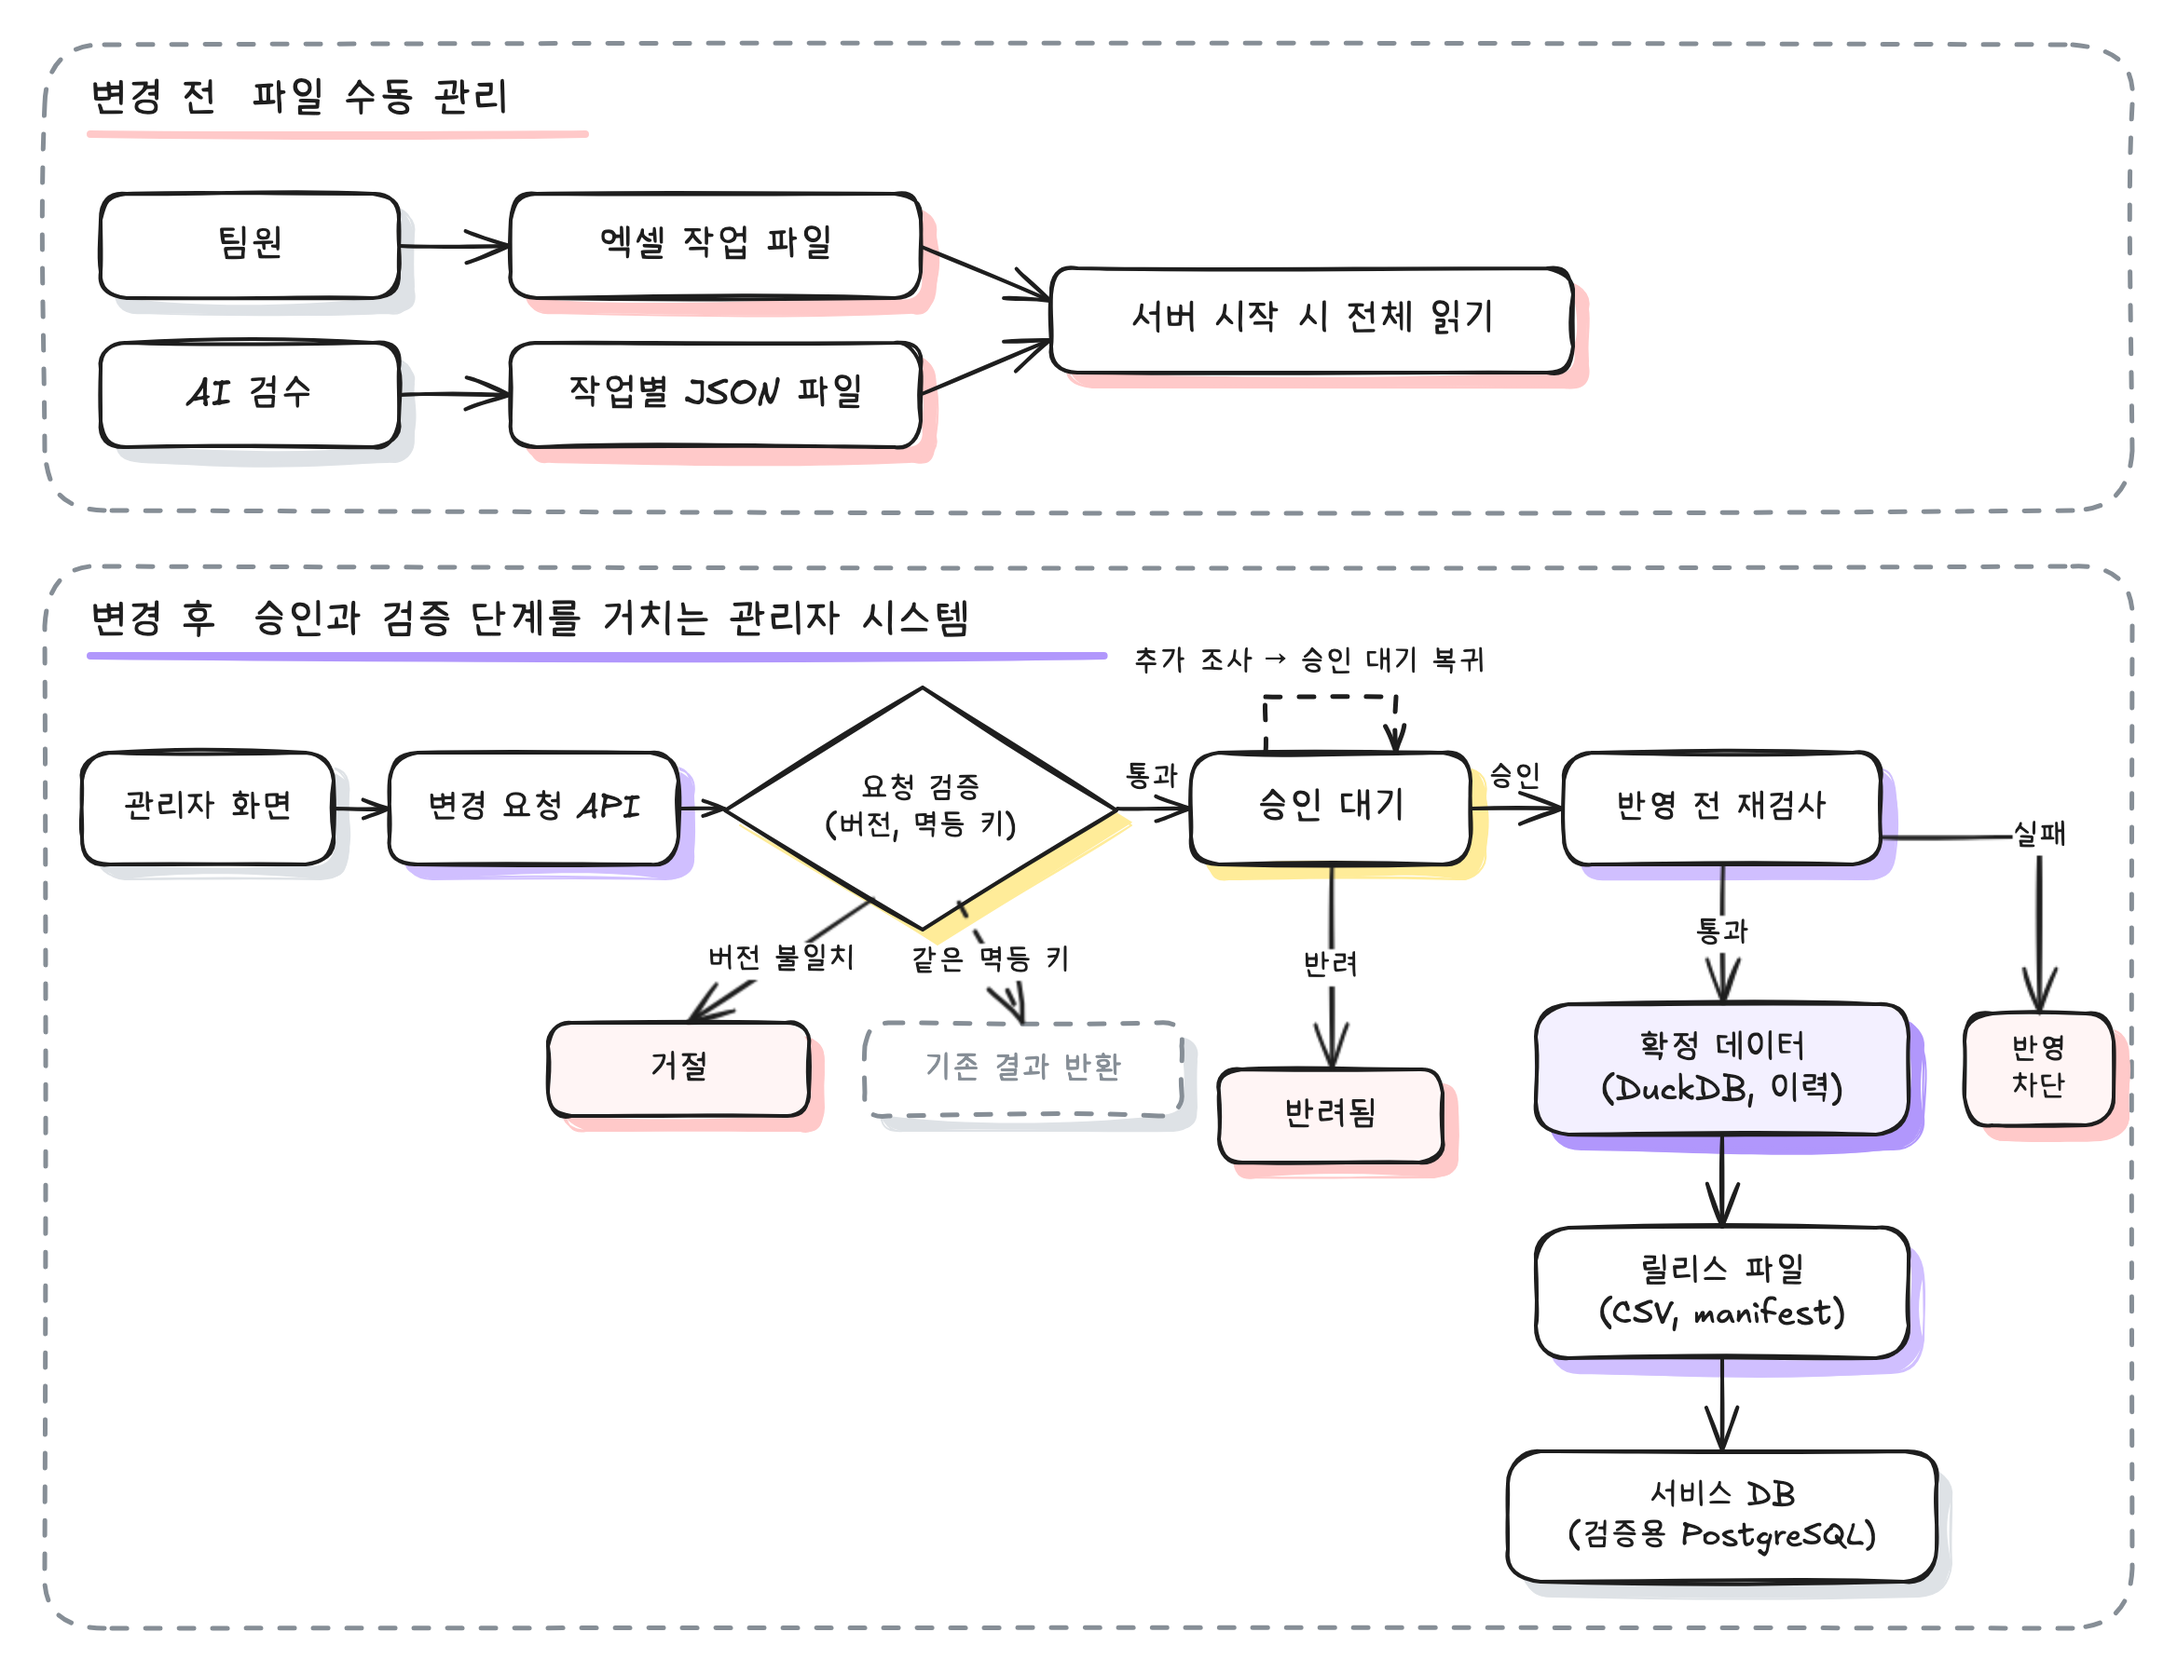
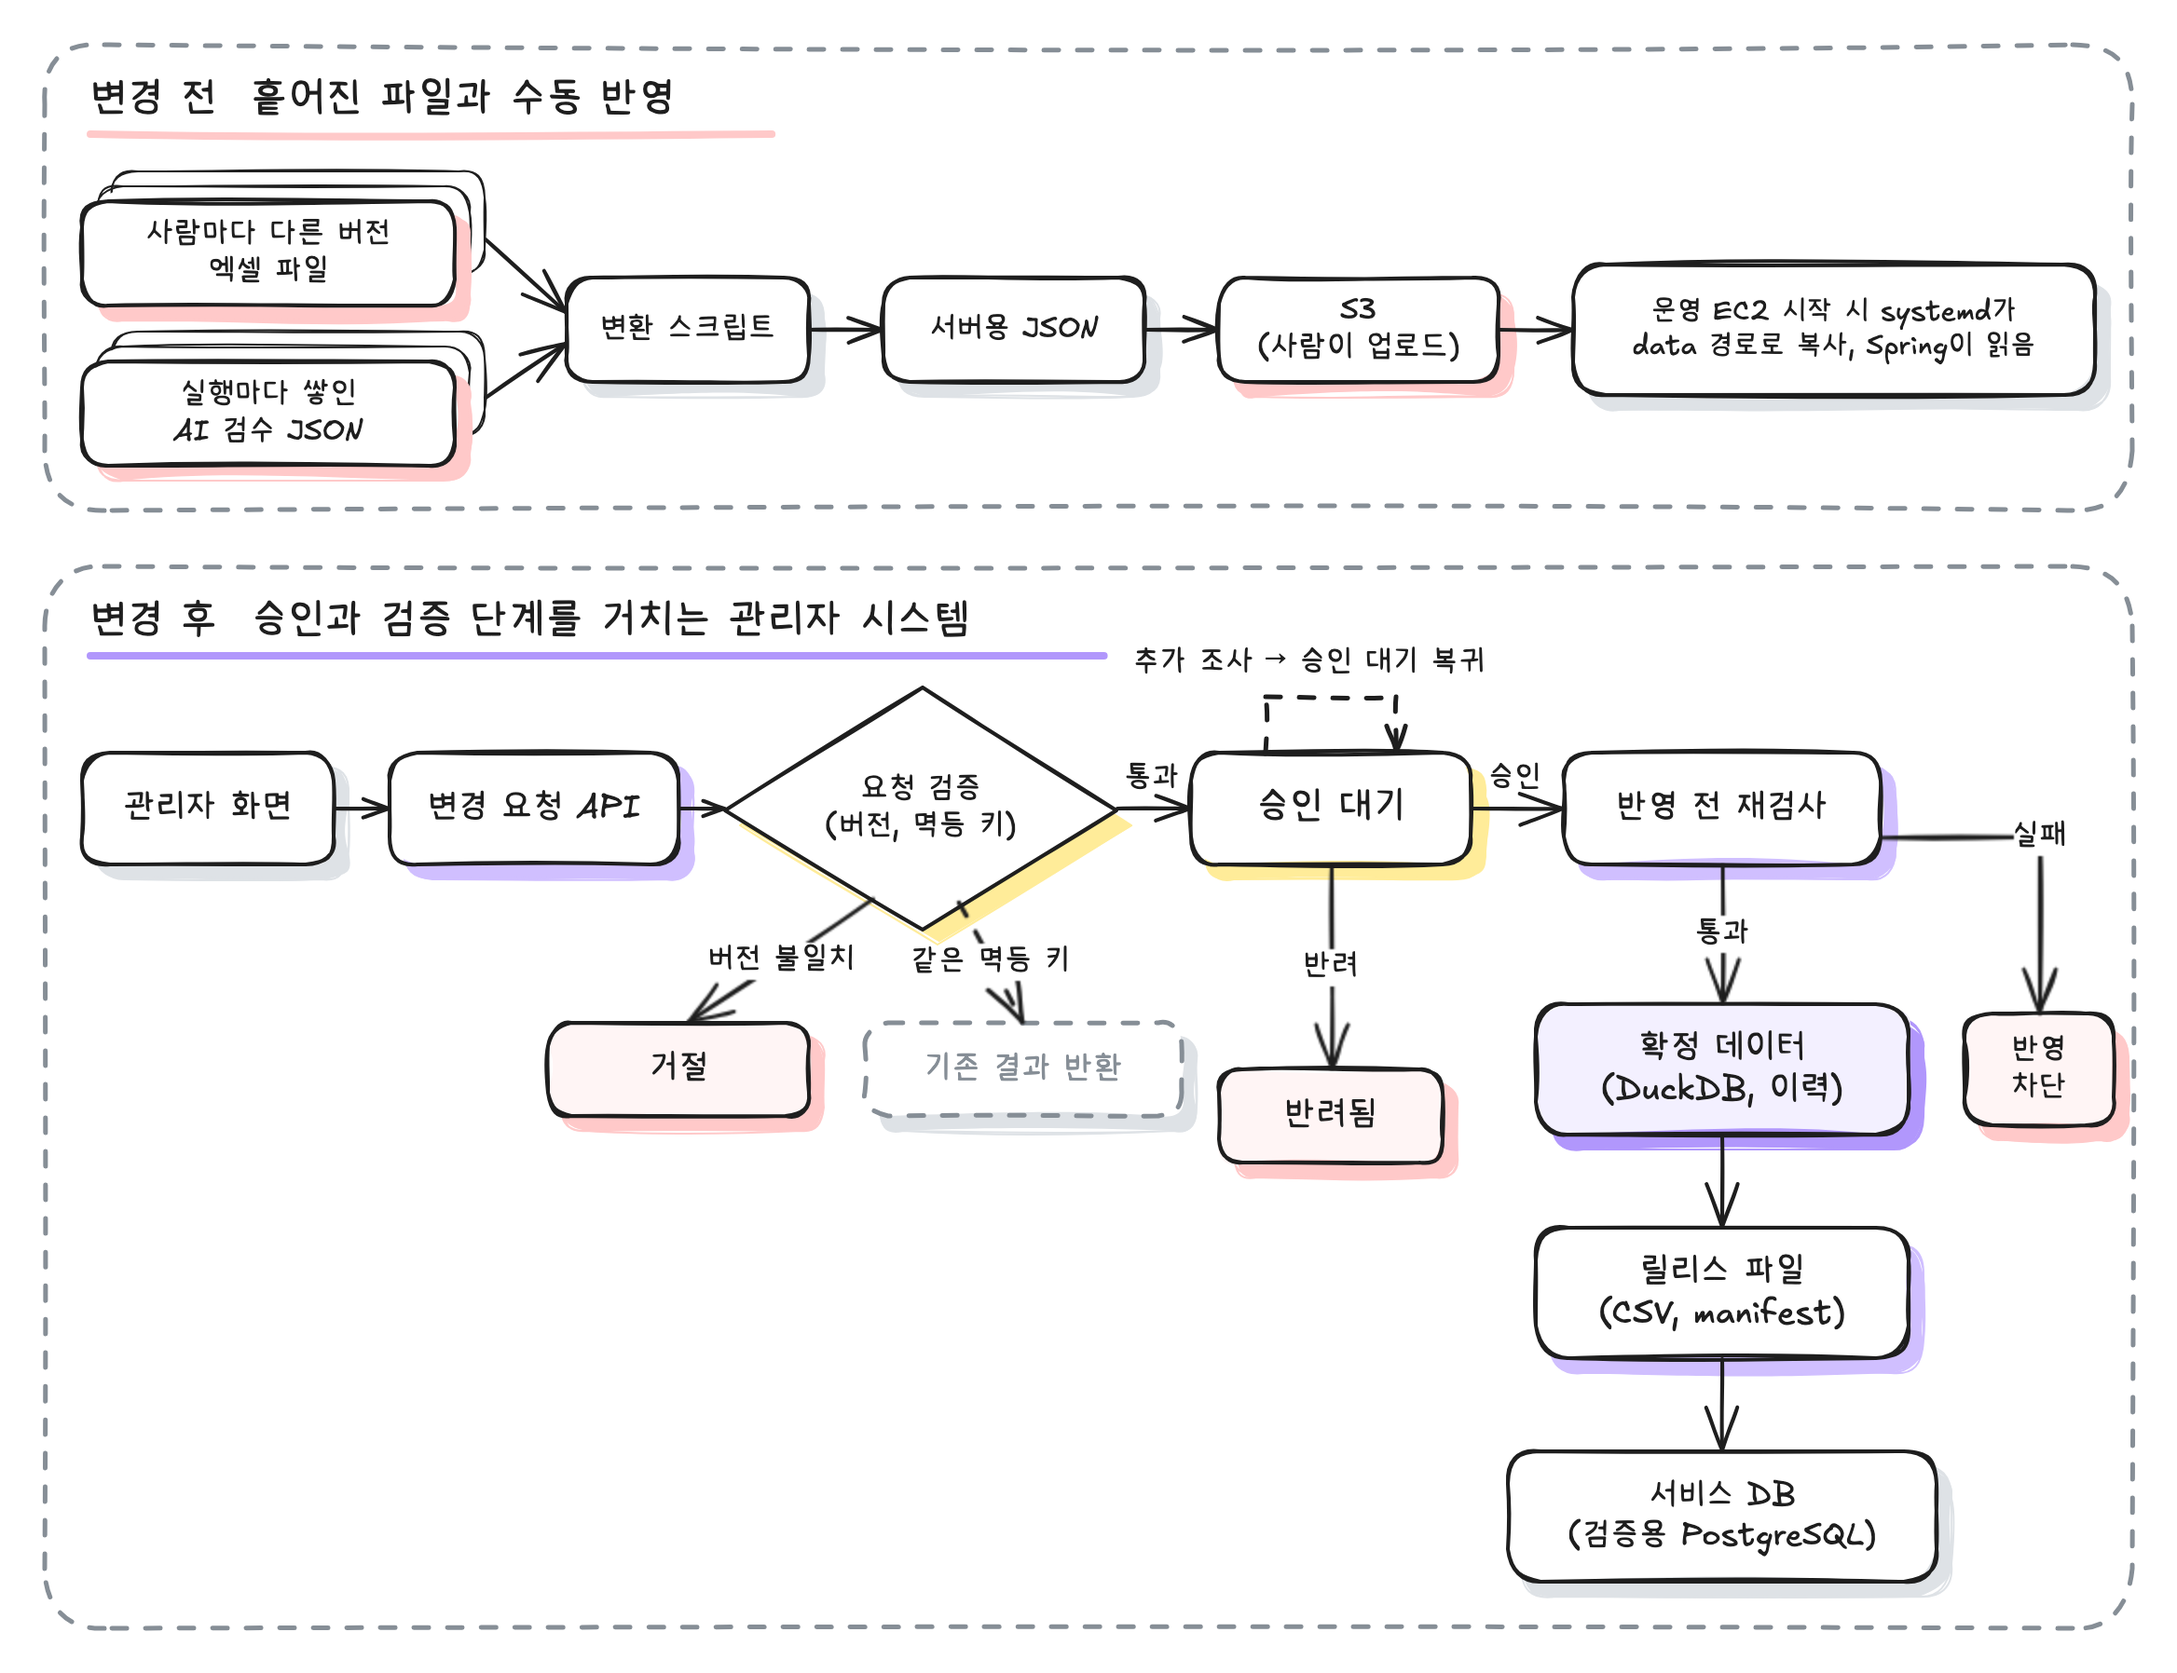
portfolio: 사례 01 변경 전 흐름을 실제 반영 과정(변환 스크립트, S3, systemd)으로 수정

diff --git a/index.html b/index.html
@@ -56,15 +56,15 @@
   <h3 id="case-title-1">성분 데이터 관리 개선: 정적 파일 방식에서 승인 기반 관리자 시스템으로 전환</h3>
   <p class="case-deck">정적 파일 수동 관리로 생기던 데이터 불일치와 검증 없는 반영을 막기 위해 승인 기반 관리자 시스템을 구축했습니다. API 기반 검증과 승인 절차를 도입해, 검증된 데이터만 서비스 DB에 반영되는 구조를 마련했습니다.</p>
   <figure>
-    <div class="figure-heading"><p class="figure-title">관리 방식 변경 전후</p><a href="assets/diagrams/ingredient-admin.png?v=16cce892" data-diagram aria-label="관리 방식 변경 전후 크게 보기">크게 보기 ↗</a></div>
-    <a class="diagram-link" href="assets/diagrams/ingredient-admin.png?v=16cce892" data-diagram aria-label="관리 방식 변경 전후 이미지 확대"><img class="diagram-image" src="assets/diagrams/ingredient-admin.png?v=16cce892" width="2336" height="1796" alt="변경 전에는 팀원과 AI 검수가 엑셀과 작업별 JSON 파일을 직접 다루고, 서버가 켜질 때 파일 전체를 읽었다. 변경 후에는 관리자 화면에서 변경 요청 API로 요청하면 요청 검증이 버전과 멱등 키를 확인해, 버전이 다르면 거절하고 같은 멱등 키면 기존 결과를 돌려준다. 통과한 요청은 승인 대기로 가서 반려되거나, 추가 조사 뒤 다시 대기하거나, 승인된다. 승인되면 반영 전 재검사를 거치고, 실패하면 반영을 막고 통과하면 확정 데이터(DuckDB, 이력)에 반영한 뒤 CSV와 manifest 릴리스 파일을 만들어 검증용 PostgreSQL 서비스 DB에 넣는다" loading="lazy" decoding="async"></a>
+    <div class="figure-heading"><p class="figure-title">관리 방식 변경 전후</p><a href="assets/diagrams/ingredient-admin.png?v=1d2df3a2" data-diagram aria-label="관리 방식 변경 전후 크게 보기">크게 보기 ↗</a></div>
+    <a class="diagram-link" href="assets/diagrams/ingredient-admin.png?v=1d2df3a2" data-diagram aria-label="관리 방식 변경 전후 이미지 확대"><img class="diagram-image" src="assets/diagrams/ingredient-admin.png?v=1d2df3a2" width="2336" height="1796" alt="변경 전에는 사람마다 다른 버전의 엑셀 파일과 실행마다 쌓인 AI 검수 JSON을 변환 스크립트로 서버용 JSON으로 바꾸고, 사람이 S3에 올리면 운영 EC2가 시작할 때 systemd가 data 경로로 복사하고 Spring이 읽었다. 변경 후에는 관리자 화면에서 변경 요청 API로 요청하면 요청 검증이 버전과 멱등 키를 확인해, 버전이 다르면 거절하고 같은 멱등 키면 기존 결과를 돌려준다. 통과한 요청은 승인 대기로 가서 반려되거나, 추가 조사 뒤 다시 대기하거나, 승인된다. 승인되면 반영 전 재검사를 거치고, 실패하면 반영을 막고 통과하면 확정 데이터(DuckDB, 이력)에 반영한 뒤 CSV와 manifest 릴리스 파일을 만들어 검증용 PostgreSQL 서비스 DB에 넣는다" loading="lazy" decoding="async"></a>
   </figure>
   <div class="psr">
     <div>
       <p class="label">문제 원인</p>
       <ul>
-        <li>성분과 제품 데이터 모두 다루는 사람마다 각자 다른 버전의 엑셀 파일을 만들었고, AI 검수 결과 JSON도 실행할 때마다 따로 쌓였습니다. 이전 기록도 버릴 수 없어 파일은 계속 늘었고, 어느 파일이 최신인지, 누가 마지막으로 고쳤는지 추적하기 어려웠습니다.</li>
-        <li>서비스 데이터 구조도 바뀌었습니다. 처음에는 JSON 파일로 값을 제공하다가 DB로 옮겼지만, 데이터를 만드는 쪽은 여전히 파일 기반이었습니다. 구조가 바뀔 때마다 파일을 사람이 하나하나 맞춰 고쳐야 했고, 실제로 이전에 저장해 둔 태그 DB와 최신 AI 검수 결과가 가리키는 태그 상태가 서로 달랐습니다.</li>
+        <li>성분과 제품 데이터 모두 다루는 사람마다 각자 다른 버전의 엑셀 파일을 만들었고, AI 검수 결과 JSON도 실행할 때마다 따로 쌓였습니다. 임시로 만든 엑셀과 손으로 고친 버전 파일이 여기저기 흩어졌지만 이전 기록도 버릴 수 없어, 어느 파일이 최신인지, 누가 마지막으로 고쳤는지 추적하기 어려웠습니다.</li>
+        <li>서비스에 반영하는 과정도 수동이었습니다. 엑셀을 스크립트로 서버용 JSON으로 바꾸고 사람이 S3에 올려 두면, 운영 EC2가 시작할 때 systemd가 이 파일을 data 경로로 가져오고 Spring이 읽어 썼습니다. 이후 서비스 데이터는 DB로 옮겼지만 데이터를 만드는 쪽은 여전히 파일 기반이라, 구조가 바뀔 때마다 파일을 사람이 하나하나 맞춰 고쳐야 했고, 실제로 이전에 저장해 둔 태그 DB와 최신 AI 검수 결과가 가리키는 태그 상태가 서로 달랐습니다.</li>
         <li>팀원과 AI가 같은 엑셀 파일을 열다 보니 프로그램마다 서식이 다르게 보였고, 잠금 파일이 남는 일도 잦았습니다.</li>
         <li>파일을 고친 뒤 서비스에 반영하기 전에 값을 검사하는 단계가 없어, 잘못된 값도 그대로 서비스에 들어갈 수 있었습니다.</li>
       </ul>

diff --git a/scripts/excalidraw/ingredient-admin.py b/scripts/excalidraw/ingredient-admin.py
@@ -2,16 +2,29 @@
 from exlib import *
 
 c = Canvas()
-c.frame('fb', 20, 20, 1120, 250, '변경 전  파일 수동 관리', PINK)
-c.box('p1', 50, 100, 160, 56, '팀원')
-c.box('p2', 50, 180, 160, 56, 'AI 검수')
-c.box('p3', 270, 100, 220, 56, '엑셀 작업 파일', PINK)
-c.box('p4', 270, 180, 220, 56, '작업별 JSON 파일', PINK)
-c.box('p5', 560, 140, 280, 56, '서버 시작 시 전체 읽기', PINK)
-c.arrow('pa1', 210, 128, [[0, 0], [60, 0]])
-c.arrow('pa2', 210, 208, [[0, 0], [60, 0]])
-c.arrow('pa3', 490, 128, [[0, 0], [70, 30]])
-c.arrow('pa4', 490, 208, [[0, 0], [70, -30]])
+c.frame('fb', 20, 20, 1120, 250, '변경 전  흩어진 파일과 수동 반영', PINK)
+
+
+def stack(i, x, y, w, h, label):
+    """여러 버전 파일: 뒤에 두 장을 겹쳐 그린다."""
+    for k, d in (('2', 16), ('1', 8)):
+        c.E.append({"type": "rectangle", "id": i + 'k' + k, "x": x + d, "y": y - d, "width": w, "height": h,
+                    "backgroundColor": '#ffffff', "fillStyle": "solid", "strokeColor": INK, "strokeWidth": 1,
+                    "roundness": {"type": 3}})
+    c.box(i, x, y, w, h, label, PINK, fs=16)
+
+
+stack('p1', 40, 104, 200, 56, '사람마다 다른 버전\n엑셀 파일')
+stack('p2', 40, 190, 200, 56, '실행마다 쌓인\nAI 검수 JSON')
+c.box('p3', 300, 145, 130, 56, '변환 스크립트', GRAY, fs=16)
+c.box('p4', 470, 145, 140, 56, '서버용 JSON', GRAY, fs=16)
+c.box('p5', 650, 145, 150, 56, 'S3\n(사람이 업로드)', PINK, fs=16)
+c.box('p6', 840, 138, 280, 70, '운영 EC2 시작 시 systemd가\ndata 경로로 복사, Spring이 읽음', GRAY, fs=15)
+c.arrow('pa1', 256, 124, [[0, 0], [44, 40]])
+c.arrow('pa2', 256, 210, [[0, 0], [44, -30]])
+c.arrow('pa3', 430, 173, [[0, 0], [40, 0]])
+c.arrow('pa4', 610, 173, [[0, 0], [40, 0]])
+c.arrow('pa5', 800, 173, [[0, 0], [40, 0]])
 
 c.frame('fa', 20, 300, 1120, 570, '변경 후  승인과 검증 단계를 거치는 관리자 시스템', LAV2)
 # main flow: left to right, then straight down on the right
